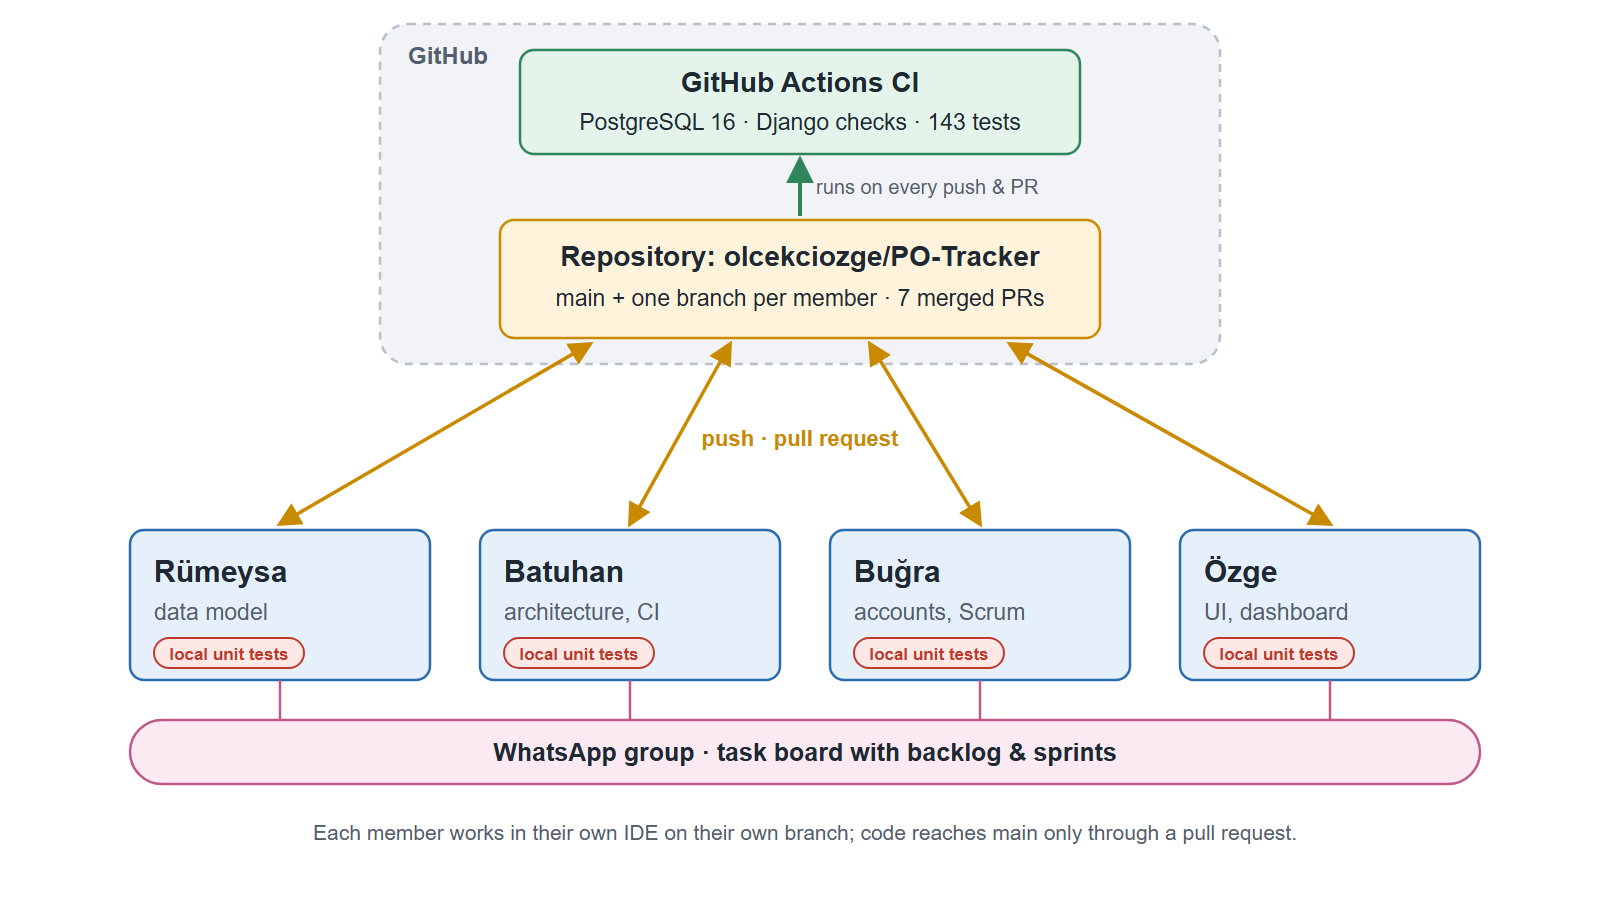
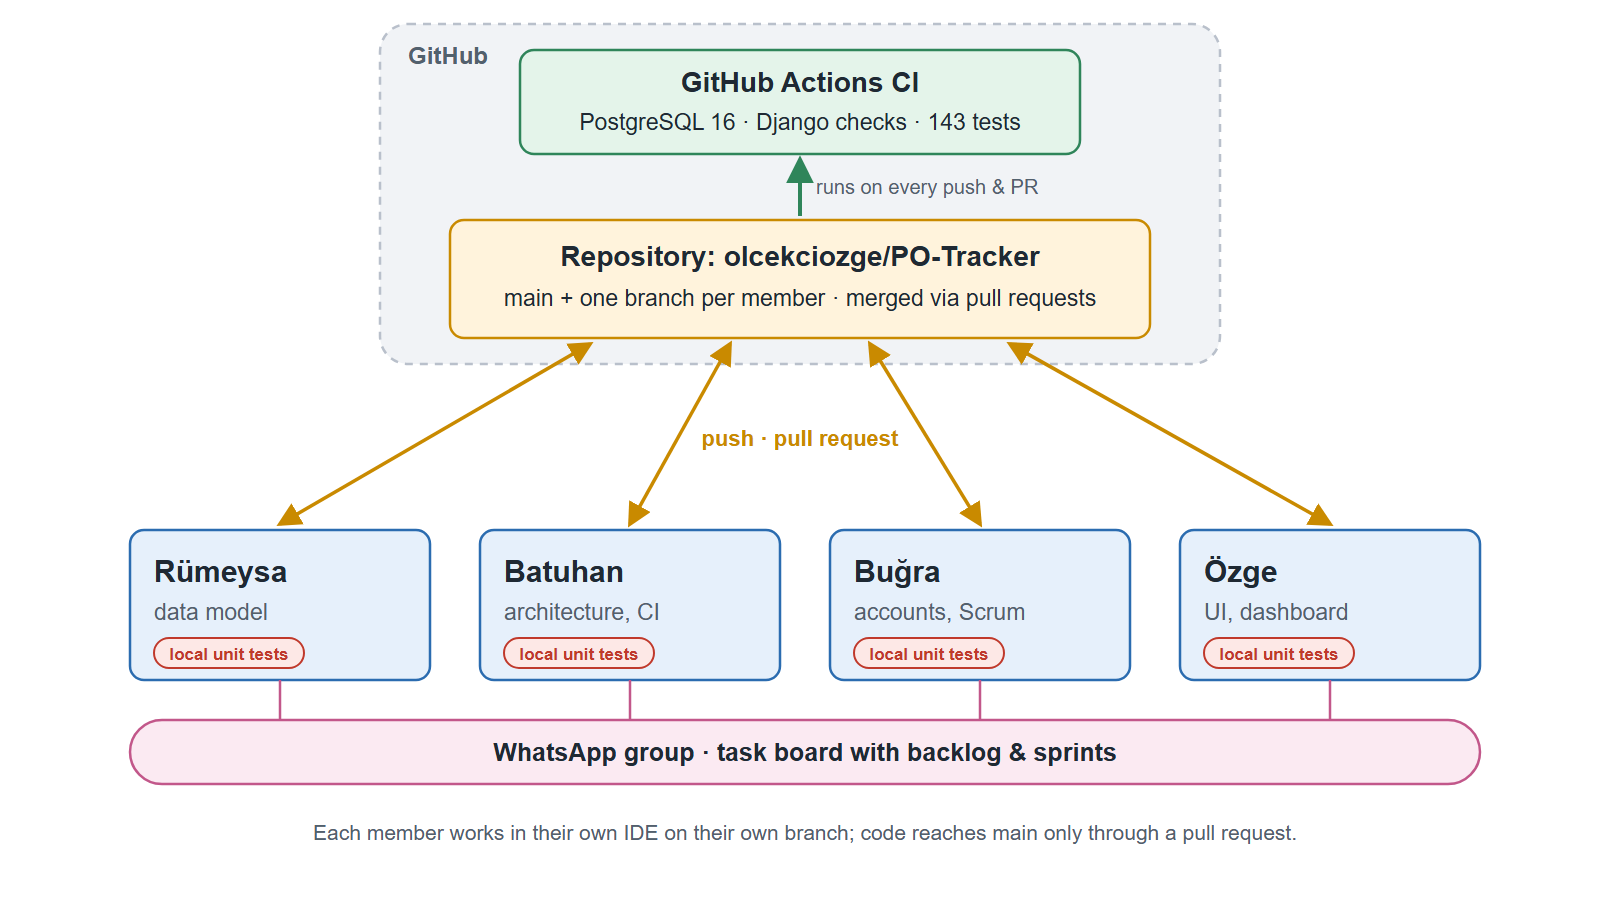
docs: tooling diagram without a hard-coded PR count

Changed region(s): [[0.2812, 0.2178, 0.7188, 0.4044]]

diff --git a/docs/diagrams/presentation/generate.js b/docs/diagrams/presentation/generate.js
@@ -157,9 +157,9 @@ ${attrs.map((a, i) => text(x + 18, y + hh + 30 + i * ah, [a], { size: 24, anchor
   b += `<line x1="800" y1="216" x2="800" y2="160" stroke="${C.ciLine}" stroke-width="4" marker-end="url(#okC)"/>`;
   b += text(816, 194, ['runs on every push & PR'], { size: 20, anchor: 'start', fill: C.soft });
   // repository
-  b += rect(500, 220, 600, 118, C.repoFill, C.repoLine);
+  b += rect(450, 220, 700, 118, C.repoFill, C.repoLine);
   b += text(800, 266, ['Repository: olcekciozge/PO-Tracker'], { size: 28, weight: 'bold', fill: C.ink });
-  b += text(800, 306, ['main + one branch per member · 7 merged PRs'], { size: 23, fill: C.ink });
+  b += text(800, 306, ['main + one branch per member · merged via pull requests'], { size: 23, fill: C.ink });
   // members
   const devs = [['Rümeysa', 'data model'], ['Batuhan', 'architecture, CI'], ['Buğra', 'accounts, Scrum'], ['Özge', 'UI, dashboard']];
   devs.forEach(([n, r], i) => {
